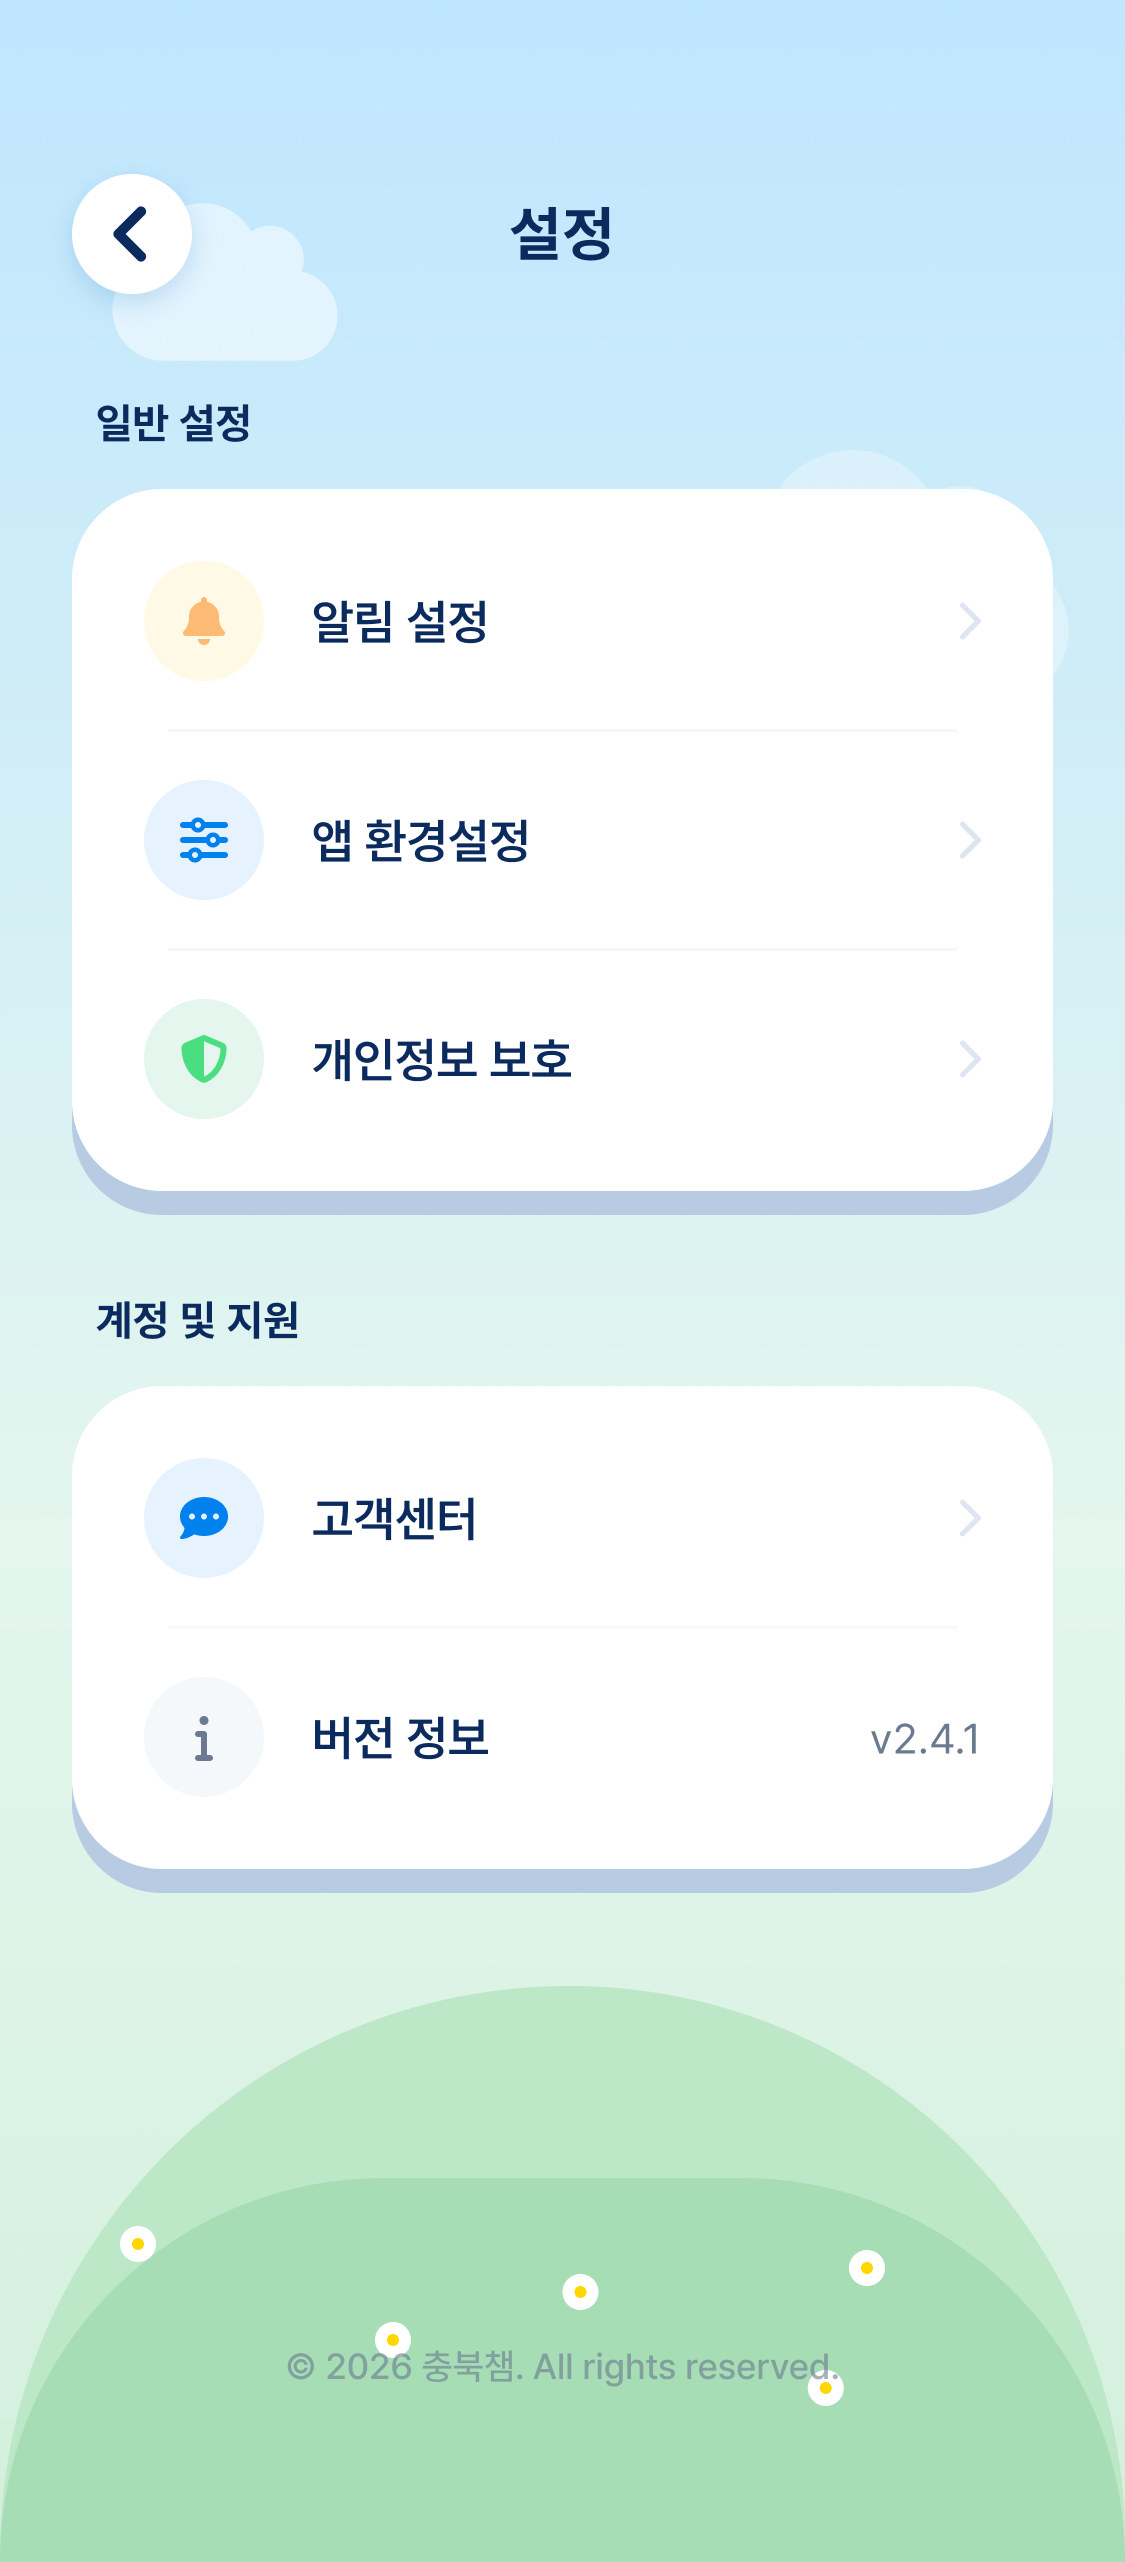
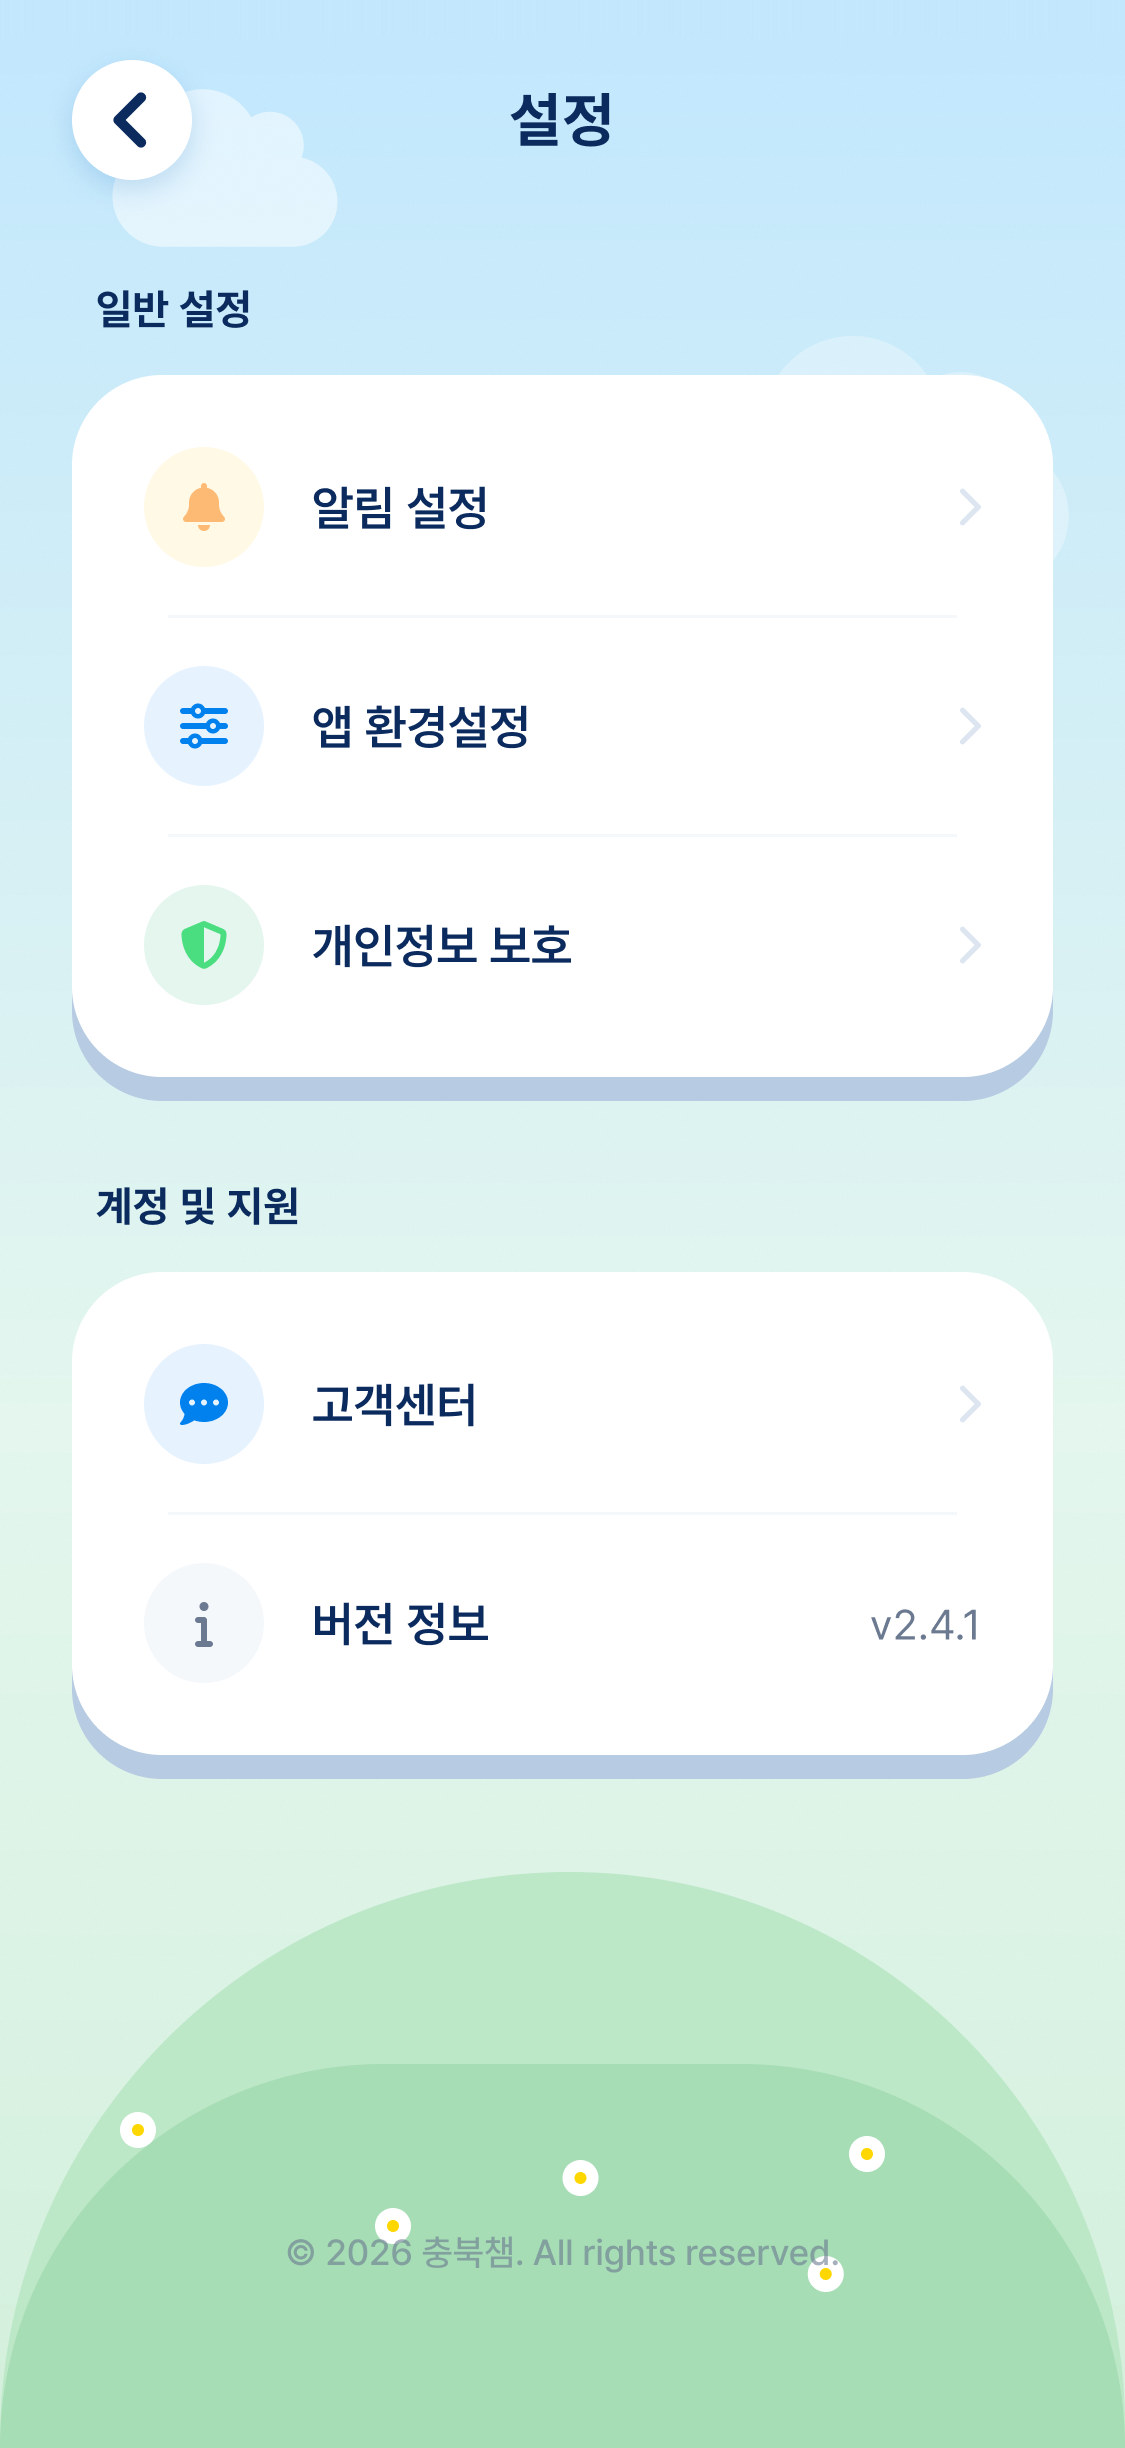
휴대폰 화면에 꽉 맞춤, 하단 버튼 고정, 상태바 제거, 앱 아이콘, 약관 개별 동의
Claude-Session: https://claude.ai/code/session_01AiJtLAmQ687dwMmwDkBebg

diff --git a/app.js b/app.js
@@ -57,22 +57,37 @@
     if (isBack) el.classList.add("back");
     after[name]?.(el);
     el.querySelectorAll('[data-act="back"]').forEach((b) => b.addEventListener("click", back));
-    setBackdrop(el);
+    setBackdrop(el); fitScreen(el);
+  }
+  function fitScreen(el) {
+    if (!el || el.classList.contains("shot-screen")) return;
+    el.style.zoom = ""; el.style.width = ""; el.style.height = ""; el.style.inset = "";
+    const need = el.scrollHeight, have = el.clientHeight;
+    if (need <= have + 2) return;
+    const z = Math.max(0.72, have / need);
+    Object.assign(el.style, { zoom: z, inset: "0 auto auto 0", width: 393 / z + "px", height: APPH / z + "px" });
   }
   function setBackdrop(el) {
     const bd = document.getElementById("backdrop"); if (!bd) return;
     const im = el.querySelector(".shot > img");
     bd.style.backgroundImage = im ? `url("${im.getAttribute("src")}")` : "";
+    if (im) el.style.setProperty("--shotbg", `url("${im.getAttribute("src")}")`);
   }
 
   // 화면을 393×852 캔버스에 딱 맞추기 (스크롤 없이)
-  const fit = (w, h) => { const k = Math.min(393 / w, 852 / h); return `width:${(w * k).toFixed(1)}px;height:${(h * k).toFixed(1)}px`; };
+  // 휴대폰 폭에 꽉 맞추고, 높이는 휴대폰 화면 높이만큼 (데스크톱은 폰 프레임)
+  let APPH = 852;
+  const fit = (w, h) => { const k = Math.min(393 / w, APPH / h); return `width:${(w * k).toFixed(1)}px;height:${(h * k).toFixed(1)}px`; };
   function scaleApp() {
     const vw = window.visualViewport?.width || innerWidth, vh = window.visualViewport?.height || innerHeight;
-    const k = Math.min(vw / 393, vh / 852);
+    let k, h;
+    if (vw >= 500) { k = Math.min(vw / 393, vh / 852, 1.2); h = 852; } else { k = vw / 393; h = Math.round(vh / k); }
+    const changed = Math.abs(h - APPH) > 4; APPH = h;
+    app.style.height = h + "px";
     app.style.transform = `translate(-50%, -50%) scale(${k})`;
+    if (changed && stack.length) rerender(app.firstElementChild);
   }
-  scaleApp(); addEventListener("resize", scaleApp); window.visualViewport?.addEventListener("resize", scaleApp);
+  addEventListener("resize", () => scaleApp()); window.visualViewport?.addEventListener("resize", () => scaleApp());
 
   // ── screens ──
   const TERMS = [["필수", "서비스 이용약관"], ["필수", "개인정보 수집·이용 동의"], ["필수", "위치기반서비스 이용약관"], ["선택", "마케팅 정보 수신 동의"]];
@@ -97,8 +112,8 @@
       </section>`;
     },
     onboarding: () => `
-      <section class="screen shot-screen onb2"><div class="shot" style="${fit(393, 840)}">
-        <img src="screens/onboarding.jpg" alt="충북챔 · 나에게 맞는 충북 여행 처방" draggable="false">
+      <section class="screen shot-screen onb2"><div class="shot" style="width:393px;height:${APPH}px">
+        <img src="screens/onboarding.jpg" style="width:393px;height:100%;object-fit:cover;object-position:50% 40%" alt="충북챔 · 나에게 맞는 충북 여행 처방" draggable="false">
         <button class="hot" aria-label="시작" style="inset:0"></button>
         <span class="onb-hint">화면을 눌러 시작하기</span>
       </div></section>`,
@@ -337,13 +352,34 @@
   };
   const FILE = { loginEmail: "login-email", cheongjuSheet: "cheongju-sheet", stampDone: "stamp-done", cheongjuDone: "cheongju-done", courseEdit: "course-edit", exploreCourse: "explore-course", diagAgain: "diag-again" };
   const pct = (v, t) => (v / t * 100).toFixed(3) + "%";
+  // 이미지 위쪽 상태바(시간·배터리) 38pt 잘라냄 → 좌표도 같이 이동
+  const CUT = 38, META = { "cheongju-done": 814, "cheongju-sheet": 814, cheongju: 814, "course-edit": 841, coursemap: 878.7, "diag-again": 853, "explore-course": 814, explore: 814, home: 814, "login-email": 788, login: 788, mycourse: 814, mypage: 827, rediag: 840, settings: 816, "stamp-done": 814, stampbook: 814 };
+  for (const [name, d] of Object.entries(IMG)) { const f = d.img || FILE[name] || name; d.h = META[f] || d.h - CUT; d.hot.forEach((h) => { h.y -= CUT; if (h.y < 0) { h.h += h.y; h.y = 0; } }); }
+  // 화면 분할: split 아래(버튼·카드·탭바)는 화면 바닥에 고정, 위쪽은 폭에 꽉 맞춤
+  // mode "clip" = 지도처럼 위쪽을 잘라서 보여줌, "scroll" = 필요하면 위쪽만 살짝 스크롤
+  const SPLIT = { login: [360, "clipb"], home: [770], diagAgain: [808], rediag: [660], explore: [771, "clip"], exploreCourse: [628, "clip"],
+    cheongju: [484, "clip"], cheongjuDone: [460, "clip"], cheongjuSheet: [430, "clip"], stampDone: [570], mycourse: [770], coursemap: [760, "clip"],
+    courseEdit: [770], mypage: [774] };
+  for (const [n, [y, m]] of Object.entries(SPLIT)) { IMG[n].split = y - CUT; IMG[n].mode = m || "scroll"; }
+  const hotBtn = (h, i, k, oy = 0) => `<button class="hot" data-i="${i}" aria-label="${h.tab || h.go || h.fn || "뒤로"}" style="left:${(h.x * k).toFixed(1)}px;top:${((h.y - oy) * k).toFixed(1)}px;width:${(h.w * k).toFixed(1)}px;height:${(h.h * k).toFixed(1)}px"></button>`;
   for (const [name, d] of Object.entries(IMG)) {
     const src = `screens/${d.img || FILE[name] || name}.jpg`;
-    screens[name] = () => `
-      <section class="screen shot-screen"><div class="shot" style="${fit(d.w, d.h)}">
-        <img src="${src}" alt="" draggable="false">
-        ${d.hot.map((h, i) => `<button class="hot" data-i="${i}" aria-label="${h.tab || h.go || h.fn || "뒤로"}" style="left:${pct(h.x, d.w)};top:${pct(h.y, d.h)};width:${pct(h.w, d.w)};height:${pct(h.h, d.h)}"></button>`).join("")}
-      </div></section>`;
+    screens[name] = () => {
+      const k = 393 / d.w, sp = d.split || d.h, top = d.hot.map((h, i) => [h, i]).filter(([h]) => h.y < sp), foot = d.hot.map((h, i) => [h, i]).filter(([h]) => h.y >= sp);
+      const footH = (d.h - sp) * k, clipH = Math.max(120, APPH - footH), clip = d.mode?.startsWith("clip") ? `max-height:${clipH}px;` : "";
+      const off = d.mode === "clipb" ? Math.min(0, clipH - sp * k) : 0;
+      return `
+      <section class="screen shot-screen ${d.mode || ""}">
+        <div class="shot" style="width:393px;height:${(sp * k).toFixed(1)}px;${clip}">
+          <img src="${src}" alt="" draggable="false" style="width:393px;height:auto;top:${off.toFixed(1)}px">
+          ${top.map(([h, i]) => hotBtn(h, i, k, -off / k)).join("")}
+        </div>
+        ${d.split ? `<div class="shot-foot" style="height:${footH.toFixed(1)}px">
+          <img src="${src}" alt="" draggable="false" style="top:${(-sp * k).toFixed(1)}px">
+          ${foot.map(([h, i]) => hotBtn(h, i, k, sp)).join("")}
+        </div>` : ""}
+      </section>`;
+    };
   }
   // 이미지 미리 불러오기 (화면 전환 시 깜빡임 방지)
   window.addEventListener("load", () => setTimeout(() => Object.entries(IMG).forEach(([n, d]) => { new Image().src = `screens/${d.img || FILE[n] || n}.jpg`; }), 800));
@@ -572,7 +608,7 @@
   screens.goesan = () => {
     const g = S.gs, cur = GS[g.cur], isDone = g.done.includes(g.cur), all = g.done.length === GS.length;
     return `
-    <section class="screen shot-screen"><div class="shot gmap" style="${fit(388, 852)}">
+    <section class="screen shot-screen"><div class="shot" style="width:393px;height:${APPH}px"><div class="gmap" style="height:${(APPH * 388 / 393 + 38).toFixed(0)}px;transform:scale(${(393 / 388).toFixed(4)}) translateY(-38px)">
       <img class="gbg" src="screens/goesan-map.jpg" alt="" draggable="false">
       ${GS.map((p, i) => `
         <button class="gplace ${i === g.cur ? "cur" : ""}" data-p="${i}" style="left:${p.px}px;top:${p.py - 30}px">
@@ -593,7 +629,7 @@
         <div class="gbtns"><button class="cta gstamp" data-act="gstamp" ${isDone ? "disabled" : ""}>${isDone ? "도장 완료" : "🖃 스탬프 찍기"}</button><button class="gsave" data-act="gsave">🔖</button></div>
       </div>
       ${navBar("탐험")}
-    </div></section>`;
+    </div></div></section>`;
   };
   after.goesan = (el) => {
     el.querySelectorAll("[data-p]").forEach((b) => (b.onclick = () => { S.gs.cur = +b.dataset.p; rerender(el); }));
@@ -642,6 +678,7 @@
     const n = app.firstElementChild; n.style.animation = "none"; n.scrollTop = y;
     after[name]?.(n);
     n.querySelectorAll('[data-act="back"]').forEach((b) => b.addEventListener("click", back));
+    setBackdrop(n); fitScreen(n);
   }
 
   for (const [n, place] of [["explore", "충북"], ["exploreCourse", "충북"], ["cheongju", "청주"], ["cheongjuDone", "청주"], ["cheongjuSheet", "청주"], ["goesan", "괴산"]]) {
@@ -649,5 +686,7 @@
     after[n] = (el) => { orig(el); addWeather(el.querySelector(".shot"), place); };
   }
 
+  scaleApp();
+  window.__go = (n) => { stack.length = 0; S.done = true; go(n); };
   go("onboarding");
 })();

diff --git a/style.css b/style.css
@@ -25,6 +25,7 @@ button { font: inherit; color: inherit; background: none; border: 0; cursor: poi
 #app {
   position: fixed; left: 50%; top: 50%;
   width: 393px; height: 852px;
+  touch-action: manipulation;
   transform-origin: center center;
   overflow: hidden;
   background: linear-gradient(180deg, #c6e6fb 0%, #e3f3f6 55%, #d7f0de 100%);
@@ -35,7 +36,7 @@ html, body { overflow: hidden; height: 100%; background: #cfe6f7; }
 .screen {
   position: absolute; inset: 0;
   display: flex; flex-direction: column;
-  padding: 20px 24px calc(var(--safe-b) + 24px);
+  padding: 16px 24px 46px;
   overflow: hidden;
   animation: in .35s cubic-bezier(.2,.8,.2,1);
 }
@@ -432,3 +433,25 @@ html, body { overflow: hidden; height: 100%; background: #cfe6f7; }
 .wx-chip b { font-weight: 800; color: var(--navy); } .wx-chip em { font-style: normal; font-weight: 800; color: var(--blue); }
 .fog { z-index: 6; }
 .wx-chip.low { left: 17px; top: 165px; }
+
+/* 폰 꽉 채우기 */
+.shot-screen { justify-content: flex-start !important; align-items: center; background: #cfe9fb; }
+.shot-screen::before { content: ""; position: absolute; inset: -30px; background: var(--shotbg) center / cover; filter: blur(18px); z-index: 0; }
+.shot { z-index: 1; }
+.gmap { position: absolute; left: 0; top: 0; width: 388px; height: 852px; transform-origin: top left; overflow: hidden; background: #c9ea8f; }
+.with-nav { padding-bottom: 116px; }
+.float-cta { padding-bottom: 40px !important; }
+.terms .skip { top: 22px; }
+.terms .terms-mole { margin-top: 30px; }
+
+/* 이미지 화면: 폭 꽉 채움 + 하단 고정 */
+.shot-screen { display: flex; flex-direction: column; align-items: stretch !important; overflow: hidden; background: var(--shotbot, #fff); }
+.shot-screen::before { display: none; }
+.shot-screen.scroll { overflow-y: auto; scrollbar-width: none; }
+.shot-screen.scroll::-webkit-scrollbar { display: none; }
+.shot { position: relative; flex: none; overflow: hidden; }
+.shot > img { position: absolute; left: 0; top: 0; }
+.shot-foot { position: sticky; bottom: 0; flex: none; margin-top: auto; overflow: hidden; z-index: 3; }
+.shot-foot > img { position: absolute; left: 0; width: 393px; height: auto; pointer-events: none; }
+.gmap .gcard { top: auto !important; bottom: 127px; }
+.gmap .map-nav { bottom: 0; }

diff --git a/index.html b/index.html
@@ -6,16 +6,18 @@
   <meta name="theme-color" content="#cdeafc" />
   <meta name="apple-mobile-web-app-capable" content="yes" />
   <title>충북챔 · 나에게 맞는 충북 여행 처방</title>
-  <link rel="icon" href="assets/mole.png" />
-  <link rel="apple-touch-icon" href="assets/mole.png" />
+  <link rel="icon" type="image/png" href="assets/favicon.png" />
+  <link rel="apple-touch-icon" href="assets/icon-180.png" />
+  <link rel="manifest" href="manifest.json" />
+  <meta name="apple-mobile-web-app-title" content="충북챔" />
   <link rel="stylesheet" href="https://cdn.jsdelivr.net/gh/orioncactus/pretendard@v1.3.9/dist/web/static/pretendard.min.css" />
-  <link rel="stylesheet" href="style.css" />
+  <link rel="stylesheet" href="style.css?v=1794304972" />
 </head>
 <body>
   <div id="backdrop"></div>
   <main id="app" aria-live="polite"></main>
   <div id="toast" role="status"></div>
-  <script src="data.js"></script>
-  <script src="app.js"></script>
+  <script src="data.js?v=1794304972"></script>
+  <script src="app.js?v=1794304972"></script>
 </body>
 </html>
